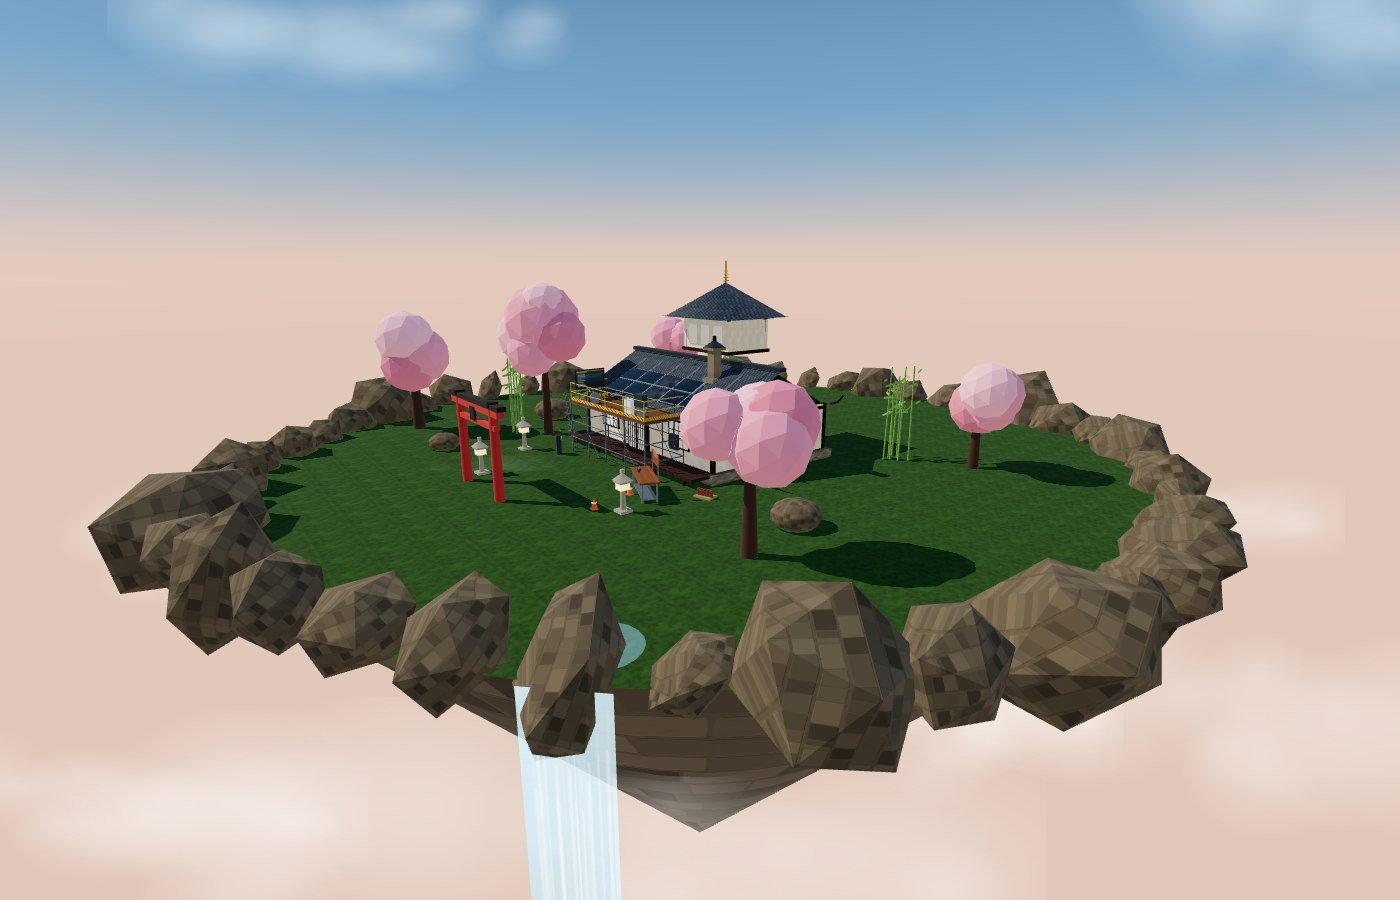
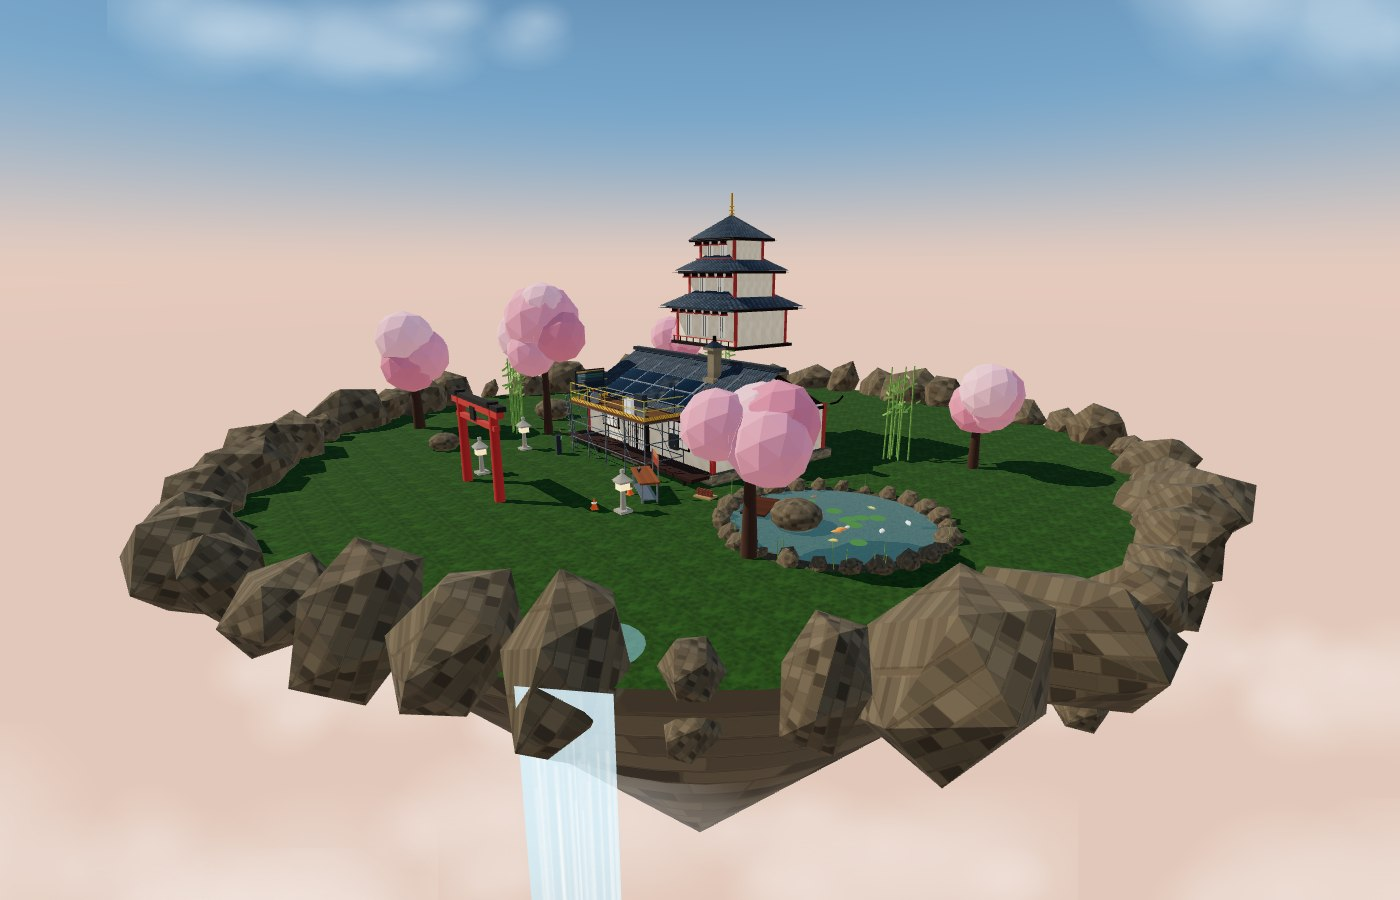
Pagoda de tres cuerpos y lago con peces koi

Changed region(s): [[0.0614, 0.2178, 0.9521, 0.8711], [0.0614, 0.84, 0.2764, 0.9333]]

diff --git a/src/pagoda.js b/src/pagoda.js
@@ -18,8 +18,9 @@ function plane(w, h, mat, x = 0, y = 0, z = 0) {
 }
 
 /**
- * Pagoda japonesa sobre la misma huella y cubierta que la villa, para que la
- * jugabilidad (EPI, guías, paneles, cableado) sea idéntica en ambas escenas.
+ * Pagoda japonesa de tres cuerpos sobre la misma huella y cubierta transitable
+ * que la villa, para que la jugabilidad (EPI, guías, paneles, cableado) sea
+ * idéntica en ambas escenas. Los paneles van sobre la cubierta del cuerpo bajo.
  */
 export function createPagoda(textures) {
   const group = new THREE.Group();
@@ -128,7 +129,7 @@ export function createPagoda(textures) {
   for (const sx of [-1, 1]) {
     for (const sz of [-1, 1]) {
       group.add(
-        box(0.2, wallH + 0.1, 0.2, darkWoodMat, sx * (HOUSE.width / 2 - 0.02), HOUSE.plinth + wallH / 2, sz * (HOUSE.depth / 2 - 0.02)),
+        box(0.22, wallH + 0.1, 0.22, lacquerMat, sx * (HOUSE.width / 2 - 0.02), HOUSE.plinth + wallH / 2, sz * (HOUSE.depth / 2 - 0.02)),
       );
     }
   }
@@ -157,6 +158,35 @@ export function createPagoda(textures) {
   gableL.position.x = -HOUSE.width / 2 + 0.15;
   gableL.scale.x = -1;
   group.add(gableR, gableL);
+
+  // hastiales decorados: plaster blanco, viga central y remate dorado
+  for (const sx of [-1, 1]) {
+    const shape2 = new THREE.Shape();
+    shape2.moveTo(-ROOF.halfDepth * 0.72, 0.18);
+    shape2.lineTo(ROOF.halfDepth * 0.72, 0.18);
+    shape2.lineTo(0, HOUSE.rise * 0.76);
+    shape2.closePath();
+    const panel = new THREE.Mesh(new THREE.ShapeGeometry(shape2), plasterMat);
+    panel.rotation.y = (sx * Math.PI) / 2;
+    panel.position.set(sx * (HOUSE.width / 2 + 0.02), HOUSE.eaveY + 0.12, 0);
+    panel.castShadow = true;
+    group.add(panel);
+
+    const beam = box(0.07, HOUSE.rise * 0.72, 0.08, darkWoodMat, sx * (HOUSE.width / 2 + 0.05), HOUSE.eaveY + HOUSE.rise * 0.4, 0);
+    group.add(beam);
+    const medallion = new THREE.Mesh(new THREE.TorusGeometry(0.16, 0.035, 8, 20), goldMat);
+    medallion.rotation.y = (sx * Math.PI) / 2;
+    medallion.position.set(sx * (HOUSE.width / 2 + 0.08), HOUSE.eaveY + HOUSE.rise * 0.42, 0);
+    group.add(medallion);
+  }
+
+  // canecillos bajo el alero principal
+  for (const z of [HOUSE.depth / 2 + 0.14, -HOUSE.depth / 2 - 0.14]) {
+    for (let x = -5.5; x <= 5.5; x += 1.1) {
+      group.add(box(0.14, 0.2, 0.4, darkWoodMat, x, HOUSE.eaveY - 0.12, z));
+      group.add(box(0.24, 0.08, 0.5, lacquerMat, x, HOUSE.eaveY - 0.26, z));
+    }
+  }
 
   /* ----------------------------------------------------------------- faldón */
   function makeRoofPlane(sign) {
@@ -245,44 +275,89 @@ export function createPagoda(textures) {
   group.add(box(2.3, 0.18, 0.6, stoneMat, doorX, 0.2, HOUSE.depth / 2 + 0.55));
   group.add(box(2.7, 0.14, 0.4, stoneMat, doorX, 0.08, HOUSE.depth / 2 + 0.95));
 
-  /* --------------------------------------------------------- segundo cuerpo */
-  const tower = new THREE.Group();
-  tower.position.set(0, ROOF.ridgeY + 0.35, -1.9);
-  tower.add(box(4.2, 0.18, 3.2, darkWoodMat, 0, 0.09, 0));
-  for (const sx of [-1.9, 1.9]) {
-    for (const sz of [-1.4, 1.4]) {
-      tower.add(box(0.16, 1.9, 0.16, darkWoodMat, sx, 1.05, sz));
-    }
-  }
-  tower.add(box(4.0, 1.7, 3.0, plasterMat, 0, 1.0, 0));
-  for (const sx of [-1.1, 0, 1.1]) {
-    tower.add(box(0.7, 1.1, 0.06, shojiMat, sx, 1.0, 1.52));
-  }
-  tower.add(box(4.5, 0.16, 3.5, darkWoodMat, 0, 2.0, 0));
+  /* ------------------------------------------------------ cuerpos de pagoda */
+  const tierZ = -2.3;
+  const tiers = [
+    { w: 5.2, d: 3.8, h: 1.9, y: 5.9, roofR: 4.2, roofH: 1.7 },
+    { w: 4.0, d: 2.9, h: 1.5, y: 8.3, roofR: 3.3, roofH: 1.5 },
+    { w: 2.9, d: 2.1, h: 1.25, y: 10.3, roofR: 2.4, roofH: 1.3 },
+  ];
 
-  // tejado piramidal del segundo cuerpo
-  const upperRoof = new THREE.Mesh(new THREE.ConeGeometry(3.5, 1.9, 4, 1), kawaraMat);
-  upperRoof.rotation.y = Math.PI / 4;
-  upperRoof.position.y = 2.95;
-  upperRoof.castShadow = true;
-  upperRoof.receiveShadow = true;
-  tower.add(upperRoof);
-  const upperEave = new THREE.Mesh(new THREE.ConeGeometry(3.75, 0.28, 4, 1), ridgeMat);
-  upperEave.rotation.y = Math.PI / 4;
-  upperEave.position.y = 2.12;
-  tower.add(upperEave);
+  tiers.forEach((t, index) => {
+    const tier = new THREE.Group();
+    tier.position.set(0, t.y, tierZ);
+
+    // plataforma y pilares lacados
+    tier.add(box(t.w + 0.6, 0.16, t.d + 0.6, darkWoodMat, 0, 0.08, 0));
+    for (const sx of [-1, 1]) {
+      for (const sz of [-1, 1]) {
+        tier.add(
+          box(0.14, t.h, 0.14, lacquerMat, sx * (t.w / 2), t.h / 2 + 0.16, sz * (t.d / 2)),
+        );
+      }
+    }
+    tier.add(box(t.w, t.h, t.d, plasterMat, 0, t.h / 2 + 0.16, 0));
+
+    // ventanas shoji al frente
+    const nWin = index === 0 ? 3 : 2;
+    for (let i = 0; i < nWin; i++) {
+      const wx = (i - (nWin - 1) / 2) * (t.w / (nWin + 0.5));
+      tier.add(box(0.52, t.h * 0.6, 0.05, shojiMat, wx, t.h / 2 + 0.2, t.d / 2 + 0.04));
+      for (let k = 1; k < 3; k++) {
+        tier.add(
+          box(
+            0.02,
+            t.h * 0.6,
+            0.02,
+            darkWoodMat,
+            wx - 0.26 + (k * 0.52) / 3,
+            t.h / 2 + 0.2,
+            t.d / 2 + 0.07,
+          ),
+        );
+      }
+    }
+
+    // barandilla del balcón
+    for (let rx = -t.w / 2; rx <= t.w / 2; rx += 0.62) {
+      tier.add(box(0.04, 0.3, 0.04, darkWoodMat, rx, 0.3, t.d / 2 + 0.3));
+    }
+    tier.add(box(t.w + 0.2, 0.045, 0.045, lacquerMat, 0, 0.46, t.d / 2 + 0.3));
+
+    // canecillos y alero
+    tier.add(box(t.w + 1.0, 0.14, t.d + 1.0, darkWoodMat, 0, t.h + 0.22, 0));
+    for (let bx = -t.w / 2; bx <= t.w / 2 + 0.01; bx += 0.75) {
+      tier.add(box(0.12, 0.17, 0.34, darkWoodMat, bx, t.h + 0.07, t.d / 2 + 0.24));
+      tier.add(box(0.2, 0.07, 0.42, lacquerMat, bx, t.h - 0.05, t.d / 2 + 0.26));
+    }
+
+    // tejado piramidal
+    const roof = new THREE.Mesh(new THREE.ConeGeometry(t.roofR, t.roofH, 4, 1), kawaraMat);
+    roof.rotation.y = Math.PI / 4;
+    roof.position.y = t.h + 0.32 + t.roofH / 2;
+    roof.castShadow = true;
+    roof.receiveShadow = true;
+    tier.add(roof);
+
+    const eave = new THREE.Mesh(new THREE.ConeGeometry(t.roofR + 0.18, 0.26, 4, 1), ridgeMat);
+    eave.rotation.y = Math.PI / 4;
+    eave.position.y = t.h + 0.34;
+    eave.castShadow = true;
+    tier.add(eave);
+
+    group.add(tier);
+  });
 
   // remate (sorin)
-  const spire = new THREE.Mesh(new THREE.CylinderGeometry(0.05, 0.06, 1.3, 8), goldMat);
-  spire.position.y = 4.45;
-  tower.add(spire);
+  const spire = new THREE.Mesh(new THREE.CylinderGeometry(0.05, 0.065, 1.5, 8), goldMat);
+  spire.position.set(0, 13.55, tierZ);
+  group.add(spire);
   for (let i = 0; i < 4; i++) {
-    const ring = new THREE.Mesh(new THREE.TorusGeometry(0.17 - i * 0.025, 0.022, 6, 16), goldMat);
+    const ring = new THREE.Mesh(new THREE.TorusGeometry(0.18 - i * 0.02, 0.022, 6, 16), goldMat);
     ring.rotation.x = Math.PI / 2;
-    ring.position.y = 4.0 + i * 0.18;
-    tower.add(ring);
+    ring.position.set(0, 13.0 + i * 0.2, tierZ);
+    group.add(ring);
   }
-  group.add(tower);
 
   // farolillos colgantes bajo el alero
   const lampMat = new THREE.MeshStandardMaterial({

diff --git a/src/world.js b/src/world.js
@@ -294,6 +294,7 @@ function makeBamboo(seed = 1, count = 7) {
 
 export function createWorld({ scene, renderer, textures, house, theme = 'villa' }) {
   const pagoda = theme === 'pagoda';
+  const fish = [];
   const group = new THREE.Group();
   group.name = 'entorno';
   scene.add(group);
@@ -507,6 +508,147 @@ export function createWorld({ scene, renderer, textures, house, theme = 'villa' 
       boulder.castShadow = true;
       boulder.receiveShadow = true;
       deco.add(boulder);
+    }
+
+    /* ----------------------------------------------------------- lago */
+    const lakeX = 13.2;
+    const lakeZ = 3.6;
+    const lakeR = 4.2;
+
+    const shore = new THREE.Mesh(
+      new THREE.CircleGeometry(lakeR + 0.55, 48),
+      new THREE.MeshStandardMaterial({
+        map: cloneRepeat(textures.gravel, 4, 4),
+        normalMap: cloneRepeat(textures.normal.gravel, 4, 4),
+        color: 0xa89f88,
+        roughness: 1,
+      }),
+    );
+    shore.rotation.x = -Math.PI / 2;
+    shore.position.set(lakeX, 0.006, lakeZ);
+    shore.receiveShadow = true;
+    deco.add(shore);
+
+    const bed = new THREE.Mesh(
+      new THREE.CircleGeometry(lakeR, 48),
+      new THREE.MeshStandardMaterial({ color: 0x22332f, roughness: 1 }),
+    );
+    bed.rotation.x = -Math.PI / 2;
+    bed.position.set(lakeX, 0.004, lakeZ);
+    deco.add(bed);
+
+    const lakeWater = new THREE.Mesh(
+      new THREE.CircleGeometry(lakeR, 48),
+      new THREE.MeshStandardMaterial({
+        color: 0x3d8fa0,
+        transparent: true,
+        opacity: 0.52,
+        roughness: 0.08,
+        metalness: 0.35,
+        emissive: 0x0b2a30,
+        depthWrite: false,
+        side: THREE.DoubleSide,
+      }),
+    );
+    lakeWater.rotation.x = -Math.PI / 2;
+    lakeWater.position.set(lakeX, 0.05, lakeZ);
+    lakeWater.renderOrder = 2;
+    group.add(lakeWater);
+
+    // orilla de piedras
+    for (let i = 0; i < 26; i++) {
+      const a = (i / 26) * Math.PI * 2;
+      const rock = new THREE.Mesh(
+        new THREE.IcosahedronGeometry(0.28 + Math.random() * 0.4, 0),
+        rockMat,
+      );
+      rock.position.set(
+        lakeX + Math.cos(a) * (lakeR + 0.35),
+        0.12,
+        lakeZ + Math.sin(a) * (lakeR + 0.35),
+      );
+      rock.scale.set(1, 0.7, 1);
+      rock.rotation.set(Math.random(), Math.random(), Math.random());
+      rock.castShadow = true;
+      rock.receiveShadow = true;
+      deco.add(rock);
+    }
+
+    // nenúfares y juncos
+    const padMat = new THREE.MeshStandardMaterial({
+      color: 0x477d3d,
+      roughness: 0.85,
+      side: THREE.DoubleSide,
+    });
+    for (let i = 0; i < 10; i++) {
+      const a = Math.random() * Math.PI * 2;
+      const r = Math.random() * (lakeR - 0.9);
+      const pad = new THREE.Mesh(new THREE.CircleGeometry(0.2 + Math.random() * 0.16, 12), padMat);
+      pad.rotation.x = -Math.PI / 2;
+      pad.position.set(lakeX + Math.cos(a) * r, 0.062, lakeZ + Math.sin(a) * r);
+      deco.add(pad);
+    }
+    const reedMat = new THREE.MeshStandardMaterial({ color: 0x6f8f45, roughness: 0.9 });
+    for (let i = 0; i < 16; i++) {
+      const a = Math.random() * Math.PI * 2;
+      const r = lakeR + 0.2 + Math.random() * 0.5;
+      const h = 0.5 + Math.random() * 0.7;
+      const reed = new THREE.Mesh(new THREE.CylinderGeometry(0.012, 0.018, h, 5), reedMat);
+      reed.position.set(lakeX + Math.cos(a) * r, h / 2, lakeZ + Math.sin(a) * r);
+      reed.rotation.z = (Math.random() - 0.5) * 0.2;
+      deco.add(reed);
+    }
+
+    // embarcadero
+    const pierMat = new THREE.MeshStandardMaterial({
+      map: cloneRepeat(textures.wood, 2, 1),
+      normalMap: cloneRepeat(textures.normal.wood, 2, 1),
+      normalScale: new THREE.Vector2(0.7, 0.7),
+      color: 0x8e6c46,
+      roughness: 0.9,
+    });
+    const pierPostMat = new THREE.MeshStandardMaterial({ color: 0x4a3524, roughness: 0.95 });
+    const pier = new THREE.Group();
+    pier.add(box(1.1, 0.09, 2.2, pierMat, 0, 0.14, 0));
+    for (const px of [-0.45, 0.45]) {
+      for (const pz of [-0.9, 0.9]) {
+        const post = new THREE.Mesh(new THREE.CylinderGeometry(0.05, 0.05, 1.1, 7), pierPostMat);
+        post.position.set(px, -0.4, pz);
+        pier.add(post);
+      }
+    }
+    pier.position.set(lakeX - 3.0, 0.02, lakeZ + 1.2);
+    pier.rotation.y = 0.5;
+    deco.add(pier);
+
+    // peces koi
+    const koiColors = [0xff8a3d, 0xfff0dc, 0xe04a2f, 0xffc247, 0xf5f2ea];
+    for (let i = 0; i < 11; i++) {
+      const koi = new THREE.Group();
+      const mat = new THREE.MeshStandardMaterial({
+        color: koiColors[i % koiColors.length],
+        roughness: 0.5,
+        emissive: 0x241008,
+        emissiveIntensity: 0.25,
+      });
+      const body = new THREE.Mesh(new THREE.SphereGeometry(0.1, 10, 8), mat);
+      body.scale.set(1.9, 0.75, 1);
+      const tail = new THREE.Mesh(new THREE.ConeGeometry(0.075, 0.16, 4), mat);
+      tail.rotation.z = Math.PI / 2;
+      tail.position.x = -0.18;
+      koi.add(body, tail);
+      koi.scale.setScalar(0.75 + Math.random() * 0.5);
+      group.add(koi);
+      fish.push({
+        mesh: koi,
+        cx: lakeX,
+        cz: lakeZ,
+        r: 0.7 + Math.random() * (lakeR - 1.4),
+        speed: 0.18 + Math.random() * 0.3,
+        phase: Math.random() * Math.PI * 2,
+        dir: Math.random() > 0.5 ? 1 : -1,
+        y: 0.008 + Math.random() * 0.025,
+      });
     }
 
     group.add(deco);
@@ -1149,6 +1291,17 @@ export function createWorld({ scene, renderer, textures, house, theme = 'villa' 
       t.group.rotation.z = Math.sin(elapsed * 0.7 + sway) * 0.006;
       t.group.rotation.x = Math.cos(elapsed * 0.5 + sway) * 0.004;
     }
+
+    // koi nadando en círculos bajo la superficie
+    for (const f of fish) {
+      const a = f.phase + elapsed * f.speed * f.dir;
+      f.mesh.position.set(
+        f.cx + Math.cos(a) * f.r,
+        f.y + Math.sin(elapsed * 2.2 + f.phase) * 0.02,
+        f.cz + Math.sin(a) * f.r,
+      );
+      f.mesh.rotation.y = Math.atan2(-Math.cos(a) * f.dir, -Math.sin(a) * f.dir);
+    }
   }
 
   function setLcd(lines, accent = '#46d99b', footer = null) {
@@ -1183,6 +1336,7 @@ export function createWorld({ scene, renderer, textures, house, theme = 'villa' 
     sky,
     sun,
     trees,
+    fish,
     shadeSpheres,
     shadeAt,
     update,

diff --git a/src/main.js b/src/main.js
@@ -47,7 +47,7 @@ if (isPagoda) {
   const tagline = document.querySelector('#intro .tagline');
   if (tagline) {
     tagline.textContent =
-      'Sube a la pagoda de una isla flotante y monta la instalación fotovoltaica. EPI, guías, sombras y producción anual en un entorno japonés.';
+      'Sube a la pagoda de una isla flotante y monta la instalación fotovoltaica sobre su tejado. EPI, guías, sombras y producción anual entre cerezos y un lago de koi.';
   }
 }
 

diff --git a/README.md b/README.md
@@ -18,10 +18,13 @@ el entorno:
 
 - **Villa mediterránea** (`?theme=villa`, por defecto): vivienda con cubierta de teja árabe,
   jardín, camino de grava y calle.
-- **Isla de la pagoda** (`?theme=pagoda`): isla flotante con pagoda japonesa de tejado
-  *kawara*, cerezos en flor, torii, faroles de piedra, bambú y cascada al vacío.
+- **Isla de la pagoda** (`?theme=pagoda`): isla flotante con una pagoda de tres cuerpos y
+  tejado *kawara*, paneles solares en su cubierta, cerezos en flor, torii, faroles de piedra,
+  bambú, cascada al vacío y un **lago con peces koi**.
 
-La elección se guarda en la URL, así que puedes compartir o marcar cada escena.
+La elección se guarda en la URL, así que puedes compartir o marcar cada escena. En la isla,
+las tareas siguen siendo las mismas: el EPI se coge en la mesa, el andamio da acceso a la
+cubierta de la pagoda y el cuadro eléctrico está junto a los paneles.
 
 ![Isla de la pagoda](docs/pagoda.jpg)
 
